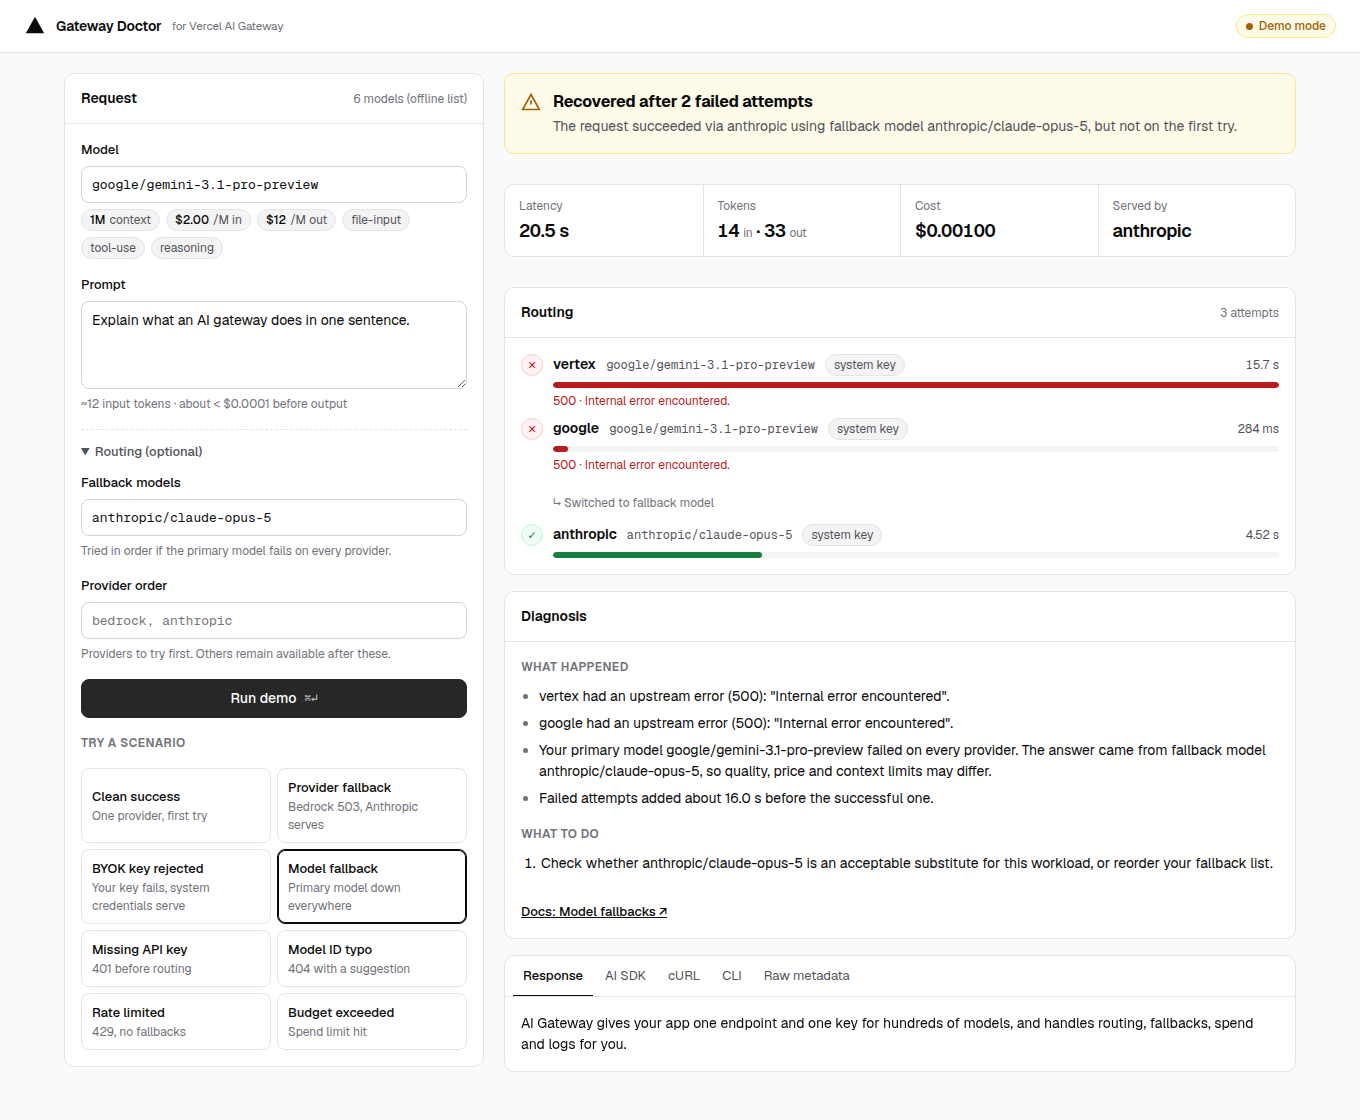
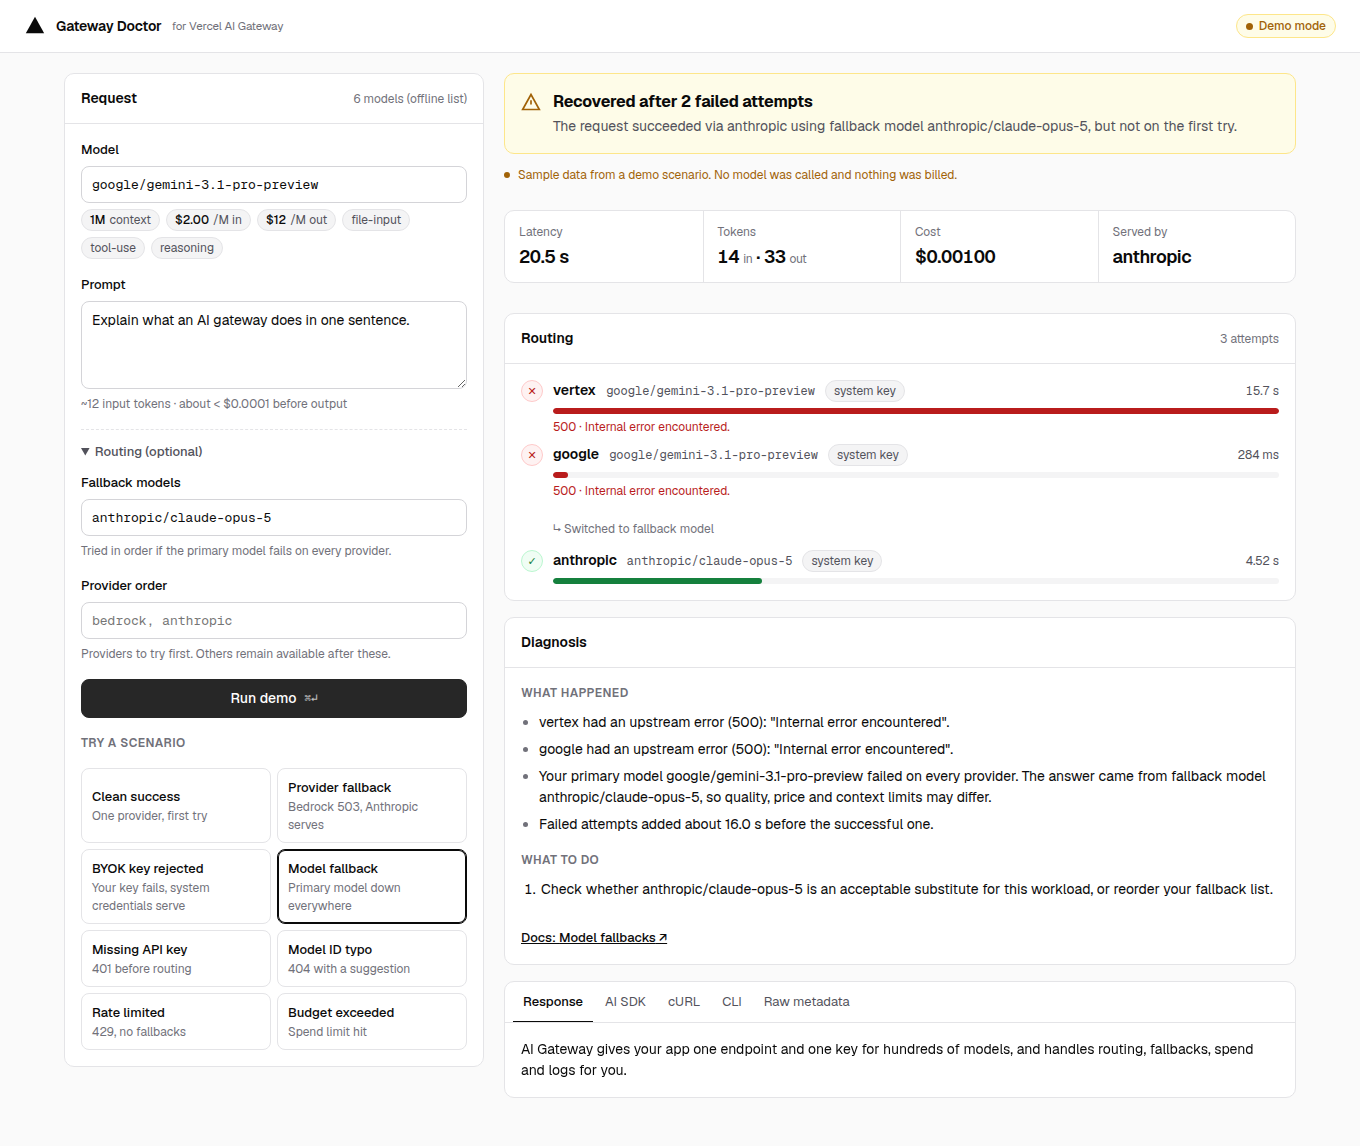
Label demo results as sample data; fix sample costs to match catalog prices
Claude-Session: https://claude.ai/code/session_01GmqFxVdS9AShNnRP6U35MW

diff --git a/lib/fixtures.ts b/lib/fixtures.ts
@@ -50,7 +50,7 @@ export function demoResult(req: RunRequest): RunResult {
         usage: { inputTokens: 14, outputTokens: 31 },
         finishReason: 'stop',
         gateway: {
-          cost: '0.0005070',
+          cost: '0.0003380',
           generationId: 'gen_demo_success',
           routing: {
             originalModelId: req.model,
@@ -82,7 +82,7 @@ export function demoResult(req: RunRequest): RunResult {
         usage: { inputTokens: 14, outputTokens: 31 },
         finishReason: 'stop',
         gateway: {
-          cost: '0.0005070',
+          cost: '0.0003380',
           generationId: 'gen_demo_provider_fallback',
           routing: {
             originalModelId: req.model,

diff --git a/app/globals.css b/app/globals.css
@@ -168,6 +168,10 @@ kbd { font-family: var(--mono); font-size: 11px; opacity: 0.7; }
 .verdict.recovered .icon { color: var(--warn); }
 .verdict.failed .icon { color: var(--err); }
 
+.demo-note {
+  display: flex; align-items: center; gap: 8px; margin: -4px 0 -4px; font-size: 12px; color: var(--warn);
+}
+.demo-note .dot { width: 6px; height: 6px; border-radius: 50%; background: currentColor; flex: none; }
 .stats { display: grid; grid-template-columns: repeat(4, 1fr); border: 1px solid var(--border); border-radius: var(--radius); background: var(--surface); }
 .stat { padding: 12px 14px; border-left: 1px solid var(--border); min-width: 0; }
 .stat:first-child { border-left: 0; }

diff --git a/components/Inspector.tsx b/components/Inspector.tsx
@@ -45,6 +45,13 @@ export function Inspector({ result, diagnosis, loading, live }: Props) {
         </div>
       </div>
 
+      {result.mode === 'demo' ? (
+        <p className="demo-note">
+          <span className="dot" aria-hidden="true" />
+          Sample data from a demo scenario. No model was called and nothing was billed.
+        </p>
+      ) : null}
+
       <dl className="stats">
         <div className="stat"><dt>Latency</dt><dd>{formatMs(result.latencyMs)}</dd></div>
         <div className="stat">
